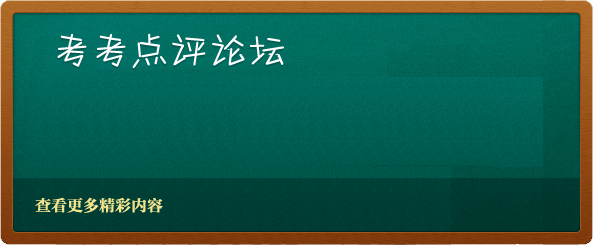
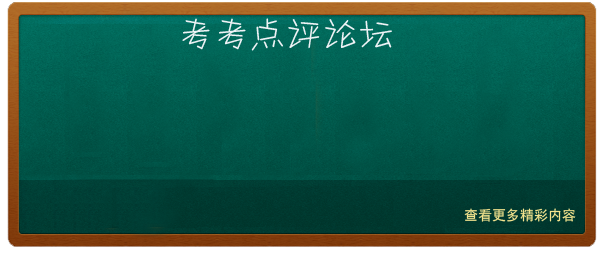
bbs fixes

diff --git a/public/stylesheets/window.css b/public/stylesheets/window.css
@@ -1,0 +1,3 @@
+* { margin:0;}
+html { background:#FFF; }
+body { text-align: left; padding:0;}

diff --git a/app/controllers/bbs/topics_controller.rb b/app/controllers/bbs/topics_controller.rb
@@ -91,7 +91,7 @@ class Bbs::TopicsController < BbsController
 
   # GET /topics/1/edit
   def edit
-    @topic = current_user.topics.find(params[:id])
+    @topic = current_user.land_topics.find(params[:id])
     @node = @topic.node
     set_seo_meta("改帖子 &raquo; 社区论坛")
   end
@@ -114,7 +114,7 @@ class Bbs::TopicsController < BbsController
   # PUT /topics/1
   # PUT /topics/1.xml
   def update
-    @topic = current_user.topics.find(params[:id])
+    @topic = current_user.land_topics.find(params[:id])
     pt = params[:land_topic]
     @topic.node_id = pt[:node_id]
     @topic.title = pt[:title]
@@ -130,7 +130,7 @@ class Bbs::TopicsController < BbsController
   # DELETE /topics/1
   # DELETE /topics/1.xml
   def destroy
-    @topic = current_user.topics.find(params[:id])
+    @topic = current_user.land_topics.find(params[:id])
     @topic.destroy
     redirect_to(bbs_topics_path, :notice => '帖子删除成功.')
   end

diff --git a/app/helpers/bbs_helper.rb b/app/helpers/bbs_helper.rb
@@ -66,7 +66,7 @@ classname, ('disabled' unless page)].join(' ')
   def format_topic_body(text,title = "",allow_image = true)
     text.gsub!("\s","&nbsp;")
     text = simple_format(text)
-    text.gsub!(/\[img\](http:\/\/.+?)\[\/img\]/i,'<img src="\1" alt="'+ h(title) +'" />')
+    text.gsub!(/\[img\](.+?)\[\/img\]/i,'<img src="\1" alt="'+ h(title) +'" />')
     text = auto_link(text,:all, :target => '_blank', :rel => "nofollow")
     text.gsub!(/#([\d]+)楼&nbsp;/,raw('#<a href="#reply\1" class="at_floor" data-floor="\1" onclick="return Topics.hightlightReply(\1)">\1楼</a> '))
     text.gsub!(/@(.+?)&nbsp;/,raw('@<a href="http://twitter.com/\1" class="at_user" title="\1">\1</a> '))

diff --git a/app/models/user.rb b/app/models/user.rb
@@ -5,9 +5,18 @@ class User
   include Mongoid::Timestamps
   include Mongoid::Voter
   include Redis::Search
+
+
   field :location
   field :verified, :type => Boolean, :default => false
   field :state, :type => Integer, :default => 1
+  field :replies_count, :type => Integer, :default => 0  
+  has_and_belongs_to_many :following_nodes, :class_name => 'Node', :inverse_of => :followers
+  has_many :land_topics, :dependent => :destroy  
+  has_many :land_notes
+  has_many :land_replies
+
+  
   def avatar_url(mtd)
     avaurl = self.avatar.send(mtd).url
     if avaurl.blank?
